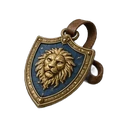
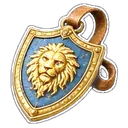
v240: het leeuwenschild, de slang en het wolfsklauw-flesje van Verweer zijn groter en helderder

diff --git a/bundel.js b/bundel.js
@@ -164,7 +164,7 @@ ${T?'<button class="knop volgende" id="gsdirect" style="font-size:1.35em;padding
  <section class="kaart hwblok"><h3>\u{1F4DC} Het verhaal</h3><ul class="hwverh">${g.map((ce,fe)=>{const me=ce.d<=U.i;return`<li class="${me?"":"dicht"}">${me?`<button class="linkknop" data-sc="${fe}">${A.sc[fe]?"":'<b class="hwnieuw">Nieuw</b> '}${ce.t}</button>`:`<span>\u{1F512} ${ce.t}</span><small>vanaf ${i(U.j,ce.d)}</small>`}</li>`}).join("")}</ul></section>
  </div>`);const Q=$("#hwclaim");Q&&(Q.onclick=T),document.querySelectorAll("[data-sc]").forEach(ce=>ce.onclick=()=>{const fe=+ce.dataset.sc;x(g[fe],()=>{A.sc[fe]||(A.sc[fe]=1,s(10,"verhaal"),toast("\u{1F4DC} +10 Pompoensnoepjes van Henk")),V.halloween()})}),document.querySelectorAll(".hwopties [data-o]").forEach(ce=>ce.onclick=()=>{const fe=+ce.dataset.o,me=m[N],Le=$("#hwraadres");if(fe===me[2]){A.raad[N]=1,s(15,"raadsel"),S.galjoenen+=10,bewaar();try{stats(),fx.speel("goed"),vib([20,30,40])}catch{}Le.innerHTML=`<div class="hwgoed">${window.tilly?tilly("<b>Goed zo!</b> "+me[3]):""}<p>+15 Pompoensnoepjes \xB7 +10 Smekkies</p><button class="knop klein" id="hwrv">Verder</button></div>`,document.querySelectorAll(".hwopties button").forEach(He=>He.disabled=!0),$("#hwrv").onclick=()=>V.halloween()}else{ce.disabled=!0,ce.classList.add("mis");try{fx.speel("kras")}catch{}Le.innerHTML='<p class="klein hwhint">Hmm, dat is het niet. Probeer gerust nog eens, er is geen haast.</p>'}})};const Z=V.kamer;Z&&(V.kamer=(...U)=>{const A=Z(...U);try{const N=document.querySelector(".kamer");N&&(S.hwTrofee||[]).length&&!N.querySelector(".hwtrofee")&&N.insertAdjacentHTML("beforeend",`<div class="hwtrofee" title="Gouden Pompoen ${S.hwTrofee.join(", ")}"><img src="img/hw/trofee-256.webp" alt="Gouden Pompoen"><small>Halloween ${S.hwTrofee.join(" \xB7 ")}</small></div>`)}catch{}return A});try{if(typeof KAARTEN<"u"&&!KAARTEN.some(U=>U[0]==L)&&(KAARTEN.push([L,"Z","Het huisspook van Griffoendor. Zijn hoofd hangt nog aan \xE9\xE9n reepje vel. Op 31 oktober vierde hij zijn vijfhonderdste sterfdag, en jij was erbij.","img/kaarten/haast-onthoofde-henk.webp","Feestdagen",1]),window.KAARTSERIES&&!KAARTSERIES.includes("Feestdagen")&&KAARTSERIES.push("Feestdagen")),typeof trekKaart=="function"){const U=trekKaart;trekKaart=function(){let A;for(let N=0;N<30;N++)if(A=U(),!A||!A[5])return A;return KAARTEN.find(N=>!N[5])}}}catch(U){console.warn(U)}const ee=V.maker;ee&&(V.maker=(...U)=>{const A=ee(...U);try{const N=o(),Q=localStorage.getItem("zw_hwdatum")||"";$("#app").insertAdjacentHTML("beforeend",`<section class="kaart sierlijst"><h3>Halloween (test)</h3><p class="klein">Nu: ${N.d.toLocaleDateString("nl-NL",{weekday:"long",day:"numeric",month:"long"})} \xB7 ${N.aan?"event AAN (dag "+(N.i+1)+" van 9"+(N.feest?", feestdag":"")+")":"event uit"}${Q?" \xB7 <b>testdatum</b>":""} \xB7 ${(S.hw&&S.hw.tot)|0} snoepjes, stap ${(S.hw&&S.hw.stap)|0}/10</p>
   <p><input type="date" id="hwdat" value="${Q||N.d.getFullYear()+"-"+e(N.d.getMonth()+1)+"-"+e(N.d.getDate())}"> <button class="knop klein" id="hwzet">Gebruik datum</button> <button class="knop klein" id="hwecht">Echte datum</button></p>
-  <p><button class="knop klein" id="hw100">+100 snoepjes</button> <button class="knop klein" id="hwwis">Halloween-voortgang wissen</button></p></section>`),$("#hwzet").onclick=()=>{localStorage.setItem("zw_hwdatum",$("#hwdat").value),te(),V.maker()},$("#hwecht").onclick=()=>{localStorage.removeItem("zw_hwdatum"),te(),V.maker()},$("#hw100").onclick=()=>{s(100,"test"),V.maker()},$("#hwwis").onclick=()=>{delete S.hw,bewaar(),V.maker()}}catch(N){console.warn(N)}return A})})(),(function(){const e="v239";window.ZW_VERSIE=e;const n=()=>`<p class="zwversie">Zweinstein Luna ${e}</p>`,a=V.meer;a&&(V.meer=(...i)=>{const r=a(...i);try{const l=$("#app");l&&!l.querySelector(".zwversie")&&l.insertAdjacentHTML("beforeend",n())}catch{}return r});const o=V.maker;o&&(V.maker=(...i)=>{const r=o(...i);try{const l=$("#app h2");l&&!$("#app .zwversie")&&l.insertAdjacentHTML("afterend",n())}catch{}return r})})(),(()=>{if(typeof m3Winst!="function"||typeof Bord>"u")return;const e=matchMedia("(prefers-reduced-motion: reduce)").matches,n=h=>new Promise(f=>setTimeout(f,h));let a=0,o=0;function i(){let h=document.getElementById("m3sc");if(!h){const f=document.querySelector(".m3mid .m3titel");if(!f)return null;f.insertAdjacentHTML("afterend",'<div class="m3score">Score <b id="m3sc">0</b></div>'),h=document.getElementById("m3sc"),a=0}return h}setInterval(()=>{try{if(typeof M3>"u"||!M3.b||M3.b.sim||document.body.dataset.view!=="match3")return;const h=i();if(!h)return;o=M3.b.score|0,a>o&&(a=o),a<o&&(a=Math.min(o,a+Math.max(5,Math.ceil((o-a)/4))),h.textContent=a.toLocaleString("nl-NL")),p(M3.b)}catch{}},60);let r=null,l=-1;function p(h){const f=document.getElementById("m3bv");if(!f||!h._grens)return;r!==h&&(r=h,l=-1);const K=Math.min(100,a/h._max*100);Math.abs(K-l)>=.2&&(l=K,f.style.width=K.toFixed(1)+"%");const E=document.querySelectorAll("#m3balk .m3bs"),g=[h.klaar&&h.klaar(),a>=h._grens[0],a>=h._grens[1]];E.forEach((x,m)=>{if(g[m]&&!x.classList.contains("aan")){if(x.classList.add("aan","pop"),setTimeout(()=>x.classList.remove("pop"),600),m)try{fx.speel("munt")}catch{}}else!g[m]&&x.classList.contains("aan")&&x.classList.remove("aan")})}const w=h=>{const f=[];for(let K=0;K<RIJEN;K++)for(let E=0;E<KOL;E++){const g=h.g[K][E];g&&g.k>=0&&!g.s&&!h.kist[K][E]&&!(h.strik&&h.strik[K][E])&&f.push([K,E])}return f},y=h=>{const f=[];for(let K=0;K<RIJEN;K++)for(let E=0;E<KOL;E++){const g=h.g[K][E];g&&g.s&&!h.kist[K][E]&&!(h.strik&&h.strik[K][E])&&f.push([K,E])}return f};function d(h,f,K){if(e||!h||!f)return;const E=document.createElement("div");E.className="m3vonk",document.body.appendChild(E);const g=f[0]-h[0],x=f[1]-h[1];E.style.left=h[0]+"px",E.style.top=h[1]+"px",E.animate([{transform:"translate(-50%,-50%) scale(.6)",opacity:.2},{transform:`translate(calc(${g*.5}px - 50%),calc(${x*.5-40}px - 50%)) scale(1.1)`,opacity:1,offset:.5},{transform:`translate(calc(${g}px - 50%),calc(${x}px - 50%)) scale(.7)`,opacity:.9}],{duration:K,easing:"cubic-bezier(.4,0,.3,1)",fill:"forwards"}).onfinish=()=>E.remove(),setTimeout(()=>E.remove(),K+400)}function j(h,f,K){const E=document.createElement("div");E.className="m3plus",E.textContent=K,E.style.left=h+"px",E.style.top=f+"px",document.body.appendChild(E),setTimeout(()=>E.remove(),900)}async function u(h){const f={pop:0,boem:0,spec:0,score0:h.score|0};window._feestLog=f;const K=document.getElementById("m3c"),E=document.getElementById("m3z");if(!K||!E)return;const g=(h._feestZet!=null?h._feestZet:h.zet)|0;let x=g,m=1,k=0;h.telDoel=()=>{},h.zaadKist=1;const v=h.fx.push;h.fx.push=function(...se){return v.apply(this,se.map(ae=>ae&&ae.t=="schat"?{t:"tik",r:ae.r,c:ae.c,s:ae.s}:ae&&ae.t=="vrij"?{t:"plank",r:ae.r,c:ae.c,over:0}:ae))},h.wacht=se=>new Promise(ae=>setTimeout(ae,se/m));const s=document.createElement("div");s.id="m3feest",s.innerHTML="<span>Tik om te versnellen</span>",document.body.appendChild(s),s.addEventListener("pointerdown",se=>{se.preventDefault(),k++,m=Math.min(12,k==1?3.5:m*1.7),s.classList.add("snel"),s.querySelector("span").textContent=m>=6?"\u23E9\u23E9 Supersnel":"\u23E9 Sneller";try{fx.speel("whoosh")}catch{}});const z=()=>K.getBoundingClientRect(),c=()=>z().width/KOL,b=(se,ae)=>{const te=z(),pe=te.width/KOL;return[te.left+(ae+.5)*pe,te.top+(se+.5)*pe]},M=()=>{const se=E.getBoundingClientRect();return[se.left+se.width/2,se.top+se.height/2]},R=Math.max(70,Math.min(170,4200/Math.max(1,g)));try{for(let te=1;te<=g;te++){const pe=w(h);if(!pe.length)break;const ne=R/m,X=pe[Math.random()*pe.length|0];d(M(),b(...X),Math.max(60,ne*1.1)),x--,E.textContent=x,E.parentNode.classList.toggle("weinig",!1),await n(Math.max(40,ne*1.05));const[t,_]=X;if(te%5===0){const O=[];for(let de=t-1;de<=t+1;de++)for(let C=_-1;C<=_+1;C++)if(h.binnen(de,C)){const T=h.g[de][C];T&&T.k>=0&&!T.s&&!h.kist[de][C]&&!(h.strik&&h.strik[de][C])&&O.push([de,C,T.k])}O.forEach(([de,C,T])=>{h.g[de][C].weg=1,h.g[de][C]=null,h.fx.push({t:"pof",r:de,c:C,k:T})}),h.fx.push({t:"bom",r:t,c:_,R:1});const D=60*O.length+200;h.score+=D,f.boem++;const q=b(t,_);j(q[0],q[1],"+"+D);try{fx.speel("kist")}catch{}}else{const O=h.g[t][_];O&&(O.weg=1,h.g[t][_]=null,h.fx.push({t:"pof",r:t,c:_,k:O.k})),h.score+=100,f.pop++;const D=b(t,_);te%2&&j(D[0],D[1],"+100");try{fx.speel("klik")}catch{}}try{M3.toonFx()}catch{}h.val()}E.textContent=0,await n(Math.max(60,260/m)),await M3.knal([]);const se=Date.now();let ae=0;for(;ae<30&&Date.now()-se<9e3;){const te=y(h);if(!te.length)break;const pe=te.sort((_,O)=>_[0]-O[0]||_[1]-O[1])[0],ne=b(...pe),X=h.score;if(!await M3.knal([pe])){await n(120),ae++;continue}h.score+=150,f.spec++,ae++,j(ne[0],ne[1],"+"+(h.score-X|0));try{fx.speel("tover")}catch{}await n(Math.max(40,180/m))}await n(Math.max(80,350/m))}catch(se){console.warn(se)}finally{s.remove(),delete h.telDoel,delete h.wacht,h.fx.push=v,E.textContent=g,f.score=h.score|0,f.sp=m;const se=i();se&&(a=h.score|0,se.textContent=a.toLocaleString("nl-NL"))}}const L=m3Winst;window.m3Winst=m3Winst=function(h,f,...K){let E=!1;try{E=!!(f&&!f.sim&&!f._feest&&f.zet>0&&typeof M3<"u"&&M3.b===f&&M3.knal&&document.getElementById("m3c")&&document.body.dataset.view==="match3")}catch{}const g=()=>{let k;try{k=L.call(this,h,f,...K)}finally{try{ECO.winKlaar(h)}catch{}}try{const v=f.score|0,s=document.querySelector(".m3eind h2");s&&v&&!document.querySelector(".m3eindscore")&&s.insertAdjacentHTML("afterend",`<p class="m3eindscore">Score <b>${v.toLocaleString("nl-NL")}</b></p>`)}catch{}return k};if(!E)return g();f._feest=1;try{ECO.winStart(h,f)}catch{}let x=!1;const m=()=>{x||(x=!0,g())};u(f).catch(k=>console.warn(k)).finally(m),setTimeout(m,3e4)}})(),(()=>{if(typeof V>"u"||!V.mijnkas)return;const e=m=>typeof m=="function",n=()=>S.m3lvl|0,a=m=>typeof ZADEN<"u"&&ZADEN[m]?ZADEN[m][0]:m,o=()=>Date.now(),i=[1e3,1600,2400,3200],r=["de groene kruidenpot","de Edelsteenpot","de Kristalpot","de Hartpot"];function l(){const m=[];return document.querySelectorAll(".mk-pot[data-i]").forEach(k=>m.push({i:+k.dataset.i,el:k,sel:`.mk-pot[data-i="${k.dataset.i}"]`})),document.querySelectorAll(".mk-vloer[data-m]").forEach(k=>{const v=+k.dataset.m;S.mega&&S.mega[v]||m.push({i:200+v,el:k,sel:`.mk-vloer[data-m="${v}"]`})}),m}const p=m=>(S.kweek||{})[m]||null,w=m=>e(window.stadium)||typeof stadium=="function"?stadium(m):-1;function y(m){return Object.keys(S.zaden||{}).filter(k=>(S.zaden[k]|0)>0&&typeof ZADEN<"u"&&ZADEN[k]&&(typeof kruidMag!="function"||kruidMag(k,m)))}function d(){if(typeof ZADEN>"u")return null;let m=null;return Object.entries(ZADEN).forEach(([k,v])=>{window.SUPERPLANTEN&&SUPERPLANTEN[k]||window.zaadDicht&&zaadDicht(k)||typeof kruidSlot=="function"&&kruidSlot(k)||(!m||v[3]<m[1])&&(m=[k,v[3]])}),m}function j(){const m=[],k=l(),v=k.filter(te=>!p(te.i)),s=k.filter(te=>p(te.i)&&w(p(te.i))<4),z=k.filter(te=>p(te.i)&&w(p(te.i))==4),c=S.galjoenen|0,b=window.leraarPoort&&leraarPoort();if(b){const te=i[0];m.push({id:"poort",ico:"\u{1FAB4}",wie:b.prof,tekst:c>=te?`Koop ${r[0]} bij Potten. Dan gaat level ${b.na+1} open.`:`Spaar voor ${r[0]}. Daarna gaat level ${b.na+1} open.`,tel:`${Math.min(c,te)}/${te}`,doel:"#potwinkel",doen:c>=te})}if(z.length){const te=z[0];m.push({id:"oogst",ico:"\u{1F33F}",tekst:z.length>1?`Oogst je planten! ${a(p(te.i).z)} is klaar, en nog ${z.length-1} andere.`:`Oogst je ${a(p(te.i).z)}. Hij is klaar!`,tel:null,doel:te.sel,doen:!0})}if(e(window.kOpdr)||typeof kOpdr=="function")try{const te=kOpdr(),pe=te[0],ne=window.zaadDicht&&zaadDicht(pe),X=typeof kruidSlot=="function"&&kruidSlot(pe),t=kOpdrTel();if(ne||X)m.push({id:"opdr",ico:"\u{1F4DC}",wie:te[3],tekst:te[2],tel:`${t}/${te[1]}`,dicht:ne?`Vanaf level ${ne}`:"Eerst de groene kruidenpot"});else{const _=s.find(C=>p(C.i).z===pe),O=v.find(C=>typeof kruidMag!="function"||kruidMag(pe,C.i));let D,q=null,de=!1;z.some(C=>p(C.i).z===pe)?(D=`Oogst je ${a(pe)}.`,q=z.find(C=>p(C.i).z===pe).sel,de=!0):_?(D=`Je ${a(pe)} groeit. Nog ${tijd(rest(p(_.i)))}.`,q=_.sel):(S.zaden[pe]|0)>0&&O?(D=`Plant een ${a(pe)}-zaadje.`,q=O.sel,de=!0):(S.zaden[pe]|0)>0?D=`Plant een ${a(pe)}-zaadje zodra er een pot vrij is.`:c>=ZADEN[pe][3]?(D=`Koop een ${a(pe)}-zaadje in de Winkel.`,q="#balkwinkel",de=!0):D=`Speel een level voor Smekkies voor een ${a(pe)}-zaadje.`,m.push({id:"opdr",ico:"\u{1F4DC}",wie:te[3],tekst:`${te[2]}. ${D}`,tel:`${t}/${te[1]}`,doel:q,doen:de})}}catch{}if(v.length){const te=v[0];if(y(te.i).length)m.push({id:"plant",ico:"\u{1F331}",tekst:"Plant een zaadje in je lege pot.",tel:null,doel:te.sel,doen:!0});else{const ne=d();ne&&c>=ne[1]&&m.push({id:"zaad",ico:"\u{1F6CD}\uFE0F",tekst:`Koop zaadjes in de Winkel (${a(ne[0])} kost ${ne[1]} Smekkies).`,doel:"#balkwinkel",doen:!0})}}const M=te=>window.spreukGeleerd&&spreukGeleerd(te),R=te=>!window.spreukOpen||spreukOpen(te),se=window.SPREUK_VAN||{flipendo:3,leviosa:6};if(window.waterMag&&waterMag())if(!S.kooiOpen)m.push({id:"kooi",ico:"\u{1F513}",tekst:"Open de kooi: tik op de knop met Flipendo naast het blok.",doel:".mk-kooiknop",doen:!0});else{const te=document.querySelector(".mk-kamer"),pe=te&&te.classList.contains("sproei"),X=1-((S.water||{}).blok|0),t=document.querySelector(`.mk-silos .mk-unit[data-i="${X}"] span`),_=t&&parseInt(t.textContent)>=100;!pe&&_&&m.push({id:"blok",ico:"\u{1F4A7}",tekst:"Een silo is vol! Laat het blok met Wingardium Leviosa naar de knop bij die silo zweven.",doel:".mk-blok",doen:!0})}else for(const[te,pe]of[["flipendo","Flipendo"],["leviosa","Wingardium Leviosa"]])if(!M(te)){R(te)?m.push({id:"les-"+te,ico:"\u{1FA84}",wie:"Professor Banning",tekst:`Leer ${pe} bij Professor Banning. Dan kan het water in je kas aan.`,doel:".mk-leviosa .knop",doen:!0}):m.push({id:"les-"+te,ico:"\u{1FA84}",wie:"Professor Banning",tekst:`Leer ${pe} voor de sproeiers.`,dicht:`Vanaf level ${se[te]}`});break}if(!document.querySelector(".mk-kamer.sproei")){const te=s.find(pe=>!(p(pe.i).nat>o()));te&&m.push({id:"water",ico:"\u{1F4A6}",tekst:`Geef je ${a(p(te.i).z)} water. Dan groeit hij 25% sneller.`,doel:te.sel,doen:!0})}try{const te=ne=>typeof telV=="function"?telV("oogst",ne):0;if(typeof dagQuests=="function"){const ne=dagQuests().find(X=>X[0]==="oogst");ne&&!(S.questKlaar||{})[vandaag()+"oogst"]&&te(0)<ne[1]&&m.push({id:"quest",ico:"\u{1F4CB}",tekst:ne[2]+".",tel:`${Math.min(ne[1],te(0))}/${ne[1]}`,info:1})}if((((S.tel||{})[vandaag()]||{}).oogst|0)<1&&m.push({id:"dagdoel",ico:"\u2B50",tekst:"Dagdoel: oogst vandaag een plant.",tel:"0/1",info:1}),typeof WEEKQ<"u"){const ne=WEEKQ.find(X=>X[0]==="oogst");ne&&te(1)<ne[1]&&m.push({id:"week",ico:"\u{1F4C5}",tekst:ne[2]+".",tel:`${Math.min(ne[1],te(1))}/${ne[1]}`,info:1})}}catch{}if(!b){const te=S.potUpgrade|0,pe=n()>=101||!!S.groteTafel||te>=3;te<4&&(te<2||pe)&&c>=i[te]&&m.push({id:"pot",ico:"\u{1F3FA}",tekst:`Je kunt ${r[te]} kopen bij Potten (${i[te]} Smekkies). Dan heb je plek voor een plant meer.`,doel:"#potwinkel",doen:!0})}return{T:m,groei:s}}function u(m){if(!m.length)return"Alles gedaan! Speel een level, dan verdien je Smekkies voor nieuwe zaadjes.";const k=Math.min(...m.map(v=>rest(p(v.i))));return`Alles gedaan! Kom terug als je planten klaar zijn (over ${tijd(k)}).`}let L=!1,h="";const f=m=>String(m).replace(/[&<>"]/g,k=>({"&":"&amp;","<":"&lt;",">":"&gt;",'"':"&quot;"})[k]);function K(m){if(document.body.dataset.view!=="mijnkas")return;const k=document.getElementById("app");if(!k||!k.querySelector(".mk-kamer"))return;const{T:v,groei:s}=j(),c=v.filter(ae=>ae.doen&&!ae.dicht)[0]||null,b=v.filter(ae=>ae!==c),M=JSON.stringify([L,v.map(ae=>[ae.id,ae.tekst,ae.tel,ae.dicht]),c?"":u(s)]);if(!m&&M===h&&document.getElementById("kastaak"))return;h=M;let R=document.getElementById("kastaak");R||(R=document.createElement("section"),R.id="kastaak",R.className="kastaak",k.appendChild(R));const se=ae=>`<li class="${ae.dicht?"dicht":""}${ae.info?" info":""}"><span class="kt-ico">${ae.ico}</span><span class="kt-txt">${ae.wie&&!ae.tekst.includes(ae.wie)?`<b>${f(ae.wie)}:</b> `:""}${f(ae.tekst)}${ae.dicht?` <em class="kt-slot">\u{1F512} ${f(ae.dicht)}</em>`:""}</span>${ae.tel?`<span class="kt-tel">${ae.tel}</span>`:""}${ae.doel&&!ae.dicht?`<button type="button" class="kt-wijs" data-doel="${f(ae.doel)}" aria-label="Laat zien waar">\u279C</button>`:""}</li>`;R.innerHTML=`<div class="kt-kop" role="button" aria-expanded="${L}"><span class="kt-label">${c?"Volgende stap":"Klaar voor nu"}</span>${b.length?`<span class="kt-meer">${L?"Minder \u25B4":`Nog ${b.length} \u25BE`}</span>`:""}</div>
+  <p><button class="knop klein" id="hw100">+100 snoepjes</button> <button class="knop klein" id="hwwis">Halloween-voortgang wissen</button></p></section>`),$("#hwzet").onclick=()=>{localStorage.setItem("zw_hwdatum",$("#hwdat").value),te(),V.maker()},$("#hwecht").onclick=()=>{localStorage.removeItem("zw_hwdatum"),te(),V.maker()},$("#hw100").onclick=()=>{s(100,"test"),V.maker()},$("#hwwis").onclick=()=>{delete S.hw,bewaar(),V.maker()}}catch(N){console.warn(N)}return A})})(),(function(){const e="v240";window.ZW_VERSIE=e;const n=()=>`<p class="zwversie">Zweinstein Luna ${e}</p>`,a=V.meer;a&&(V.meer=(...i)=>{const r=a(...i);try{const l=$("#app");l&&!l.querySelector(".zwversie")&&l.insertAdjacentHTML("beforeend",n())}catch{}return r});const o=V.maker;o&&(V.maker=(...i)=>{const r=o(...i);try{const l=$("#app h2");l&&!$("#app .zwversie")&&l.insertAdjacentHTML("afterend",n())}catch{}return r})})(),(()=>{if(typeof m3Winst!="function"||typeof Bord>"u")return;const e=matchMedia("(prefers-reduced-motion: reduce)").matches,n=h=>new Promise(f=>setTimeout(f,h));let a=0,o=0;function i(){let h=document.getElementById("m3sc");if(!h){const f=document.querySelector(".m3mid .m3titel");if(!f)return null;f.insertAdjacentHTML("afterend",'<div class="m3score">Score <b id="m3sc">0</b></div>'),h=document.getElementById("m3sc"),a=0}return h}setInterval(()=>{try{if(typeof M3>"u"||!M3.b||M3.b.sim||document.body.dataset.view!=="match3")return;const h=i();if(!h)return;o=M3.b.score|0,a>o&&(a=o),a<o&&(a=Math.min(o,a+Math.max(5,Math.ceil((o-a)/4))),h.textContent=a.toLocaleString("nl-NL")),p(M3.b)}catch{}},60);let r=null,l=-1;function p(h){const f=document.getElementById("m3bv");if(!f||!h._grens)return;r!==h&&(r=h,l=-1);const K=Math.min(100,a/h._max*100);Math.abs(K-l)>=.2&&(l=K,f.style.width=K.toFixed(1)+"%");const E=document.querySelectorAll("#m3balk .m3bs"),g=[h.klaar&&h.klaar(),a>=h._grens[0],a>=h._grens[1]];E.forEach((x,m)=>{if(g[m]&&!x.classList.contains("aan")){if(x.classList.add("aan","pop"),setTimeout(()=>x.classList.remove("pop"),600),m)try{fx.speel("munt")}catch{}}else!g[m]&&x.classList.contains("aan")&&x.classList.remove("aan")})}const w=h=>{const f=[];for(let K=0;K<RIJEN;K++)for(let E=0;E<KOL;E++){const g=h.g[K][E];g&&g.k>=0&&!g.s&&!h.kist[K][E]&&!(h.strik&&h.strik[K][E])&&f.push([K,E])}return f},y=h=>{const f=[];for(let K=0;K<RIJEN;K++)for(let E=0;E<KOL;E++){const g=h.g[K][E];g&&g.s&&!h.kist[K][E]&&!(h.strik&&h.strik[K][E])&&f.push([K,E])}return f};function d(h,f,K){if(e||!h||!f)return;const E=document.createElement("div");E.className="m3vonk",document.body.appendChild(E);const g=f[0]-h[0],x=f[1]-h[1];E.style.left=h[0]+"px",E.style.top=h[1]+"px",E.animate([{transform:"translate(-50%,-50%) scale(.6)",opacity:.2},{transform:`translate(calc(${g*.5}px - 50%),calc(${x*.5-40}px - 50%)) scale(1.1)`,opacity:1,offset:.5},{transform:`translate(calc(${g}px - 50%),calc(${x}px - 50%)) scale(.7)`,opacity:.9}],{duration:K,easing:"cubic-bezier(.4,0,.3,1)",fill:"forwards"}).onfinish=()=>E.remove(),setTimeout(()=>E.remove(),K+400)}function j(h,f,K){const E=document.createElement("div");E.className="m3plus",E.textContent=K,E.style.left=h+"px",E.style.top=f+"px",document.body.appendChild(E),setTimeout(()=>E.remove(),900)}async function u(h){const f={pop:0,boem:0,spec:0,score0:h.score|0};window._feestLog=f;const K=document.getElementById("m3c"),E=document.getElementById("m3z");if(!K||!E)return;const g=(h._feestZet!=null?h._feestZet:h.zet)|0;let x=g,m=1,k=0;h.telDoel=()=>{},h.zaadKist=1;const v=h.fx.push;h.fx.push=function(...se){return v.apply(this,se.map(ae=>ae&&ae.t=="schat"?{t:"tik",r:ae.r,c:ae.c,s:ae.s}:ae&&ae.t=="vrij"?{t:"plank",r:ae.r,c:ae.c,over:0}:ae))},h.wacht=se=>new Promise(ae=>setTimeout(ae,se/m));const s=document.createElement("div");s.id="m3feest",s.innerHTML="<span>Tik om te versnellen</span>",document.body.appendChild(s),s.addEventListener("pointerdown",se=>{se.preventDefault(),k++,m=Math.min(12,k==1?3.5:m*1.7),s.classList.add("snel"),s.querySelector("span").textContent=m>=6?"\u23E9\u23E9 Supersnel":"\u23E9 Sneller";try{fx.speel("whoosh")}catch{}});const z=()=>K.getBoundingClientRect(),c=()=>z().width/KOL,b=(se,ae)=>{const te=z(),pe=te.width/KOL;return[te.left+(ae+.5)*pe,te.top+(se+.5)*pe]},M=()=>{const se=E.getBoundingClientRect();return[se.left+se.width/2,se.top+se.height/2]},R=Math.max(70,Math.min(170,4200/Math.max(1,g)));try{for(let te=1;te<=g;te++){const pe=w(h);if(!pe.length)break;const ne=R/m,X=pe[Math.random()*pe.length|0];d(M(),b(...X),Math.max(60,ne*1.1)),x--,E.textContent=x,E.parentNode.classList.toggle("weinig",!1),await n(Math.max(40,ne*1.05));const[t,_]=X;if(te%5===0){const O=[];for(let de=t-1;de<=t+1;de++)for(let C=_-1;C<=_+1;C++)if(h.binnen(de,C)){const T=h.g[de][C];T&&T.k>=0&&!T.s&&!h.kist[de][C]&&!(h.strik&&h.strik[de][C])&&O.push([de,C,T.k])}O.forEach(([de,C,T])=>{h.g[de][C].weg=1,h.g[de][C]=null,h.fx.push({t:"pof",r:de,c:C,k:T})}),h.fx.push({t:"bom",r:t,c:_,R:1});const D=60*O.length+200;h.score+=D,f.boem++;const q=b(t,_);j(q[0],q[1],"+"+D);try{fx.speel("kist")}catch{}}else{const O=h.g[t][_];O&&(O.weg=1,h.g[t][_]=null,h.fx.push({t:"pof",r:t,c:_,k:O.k})),h.score+=100,f.pop++;const D=b(t,_);te%2&&j(D[0],D[1],"+100");try{fx.speel("klik")}catch{}}try{M3.toonFx()}catch{}h.val()}E.textContent=0,await n(Math.max(60,260/m)),await M3.knal([]);const se=Date.now();let ae=0;for(;ae<30&&Date.now()-se<9e3;){const te=y(h);if(!te.length)break;const pe=te.sort((_,O)=>_[0]-O[0]||_[1]-O[1])[0],ne=b(...pe),X=h.score;if(!await M3.knal([pe])){await n(120),ae++;continue}h.score+=150,f.spec++,ae++,j(ne[0],ne[1],"+"+(h.score-X|0));try{fx.speel("tover")}catch{}await n(Math.max(40,180/m))}await n(Math.max(80,350/m))}catch(se){console.warn(se)}finally{s.remove(),delete h.telDoel,delete h.wacht,h.fx.push=v,E.textContent=g,f.score=h.score|0,f.sp=m;const se=i();se&&(a=h.score|0,se.textContent=a.toLocaleString("nl-NL"))}}const L=m3Winst;window.m3Winst=m3Winst=function(h,f,...K){let E=!1;try{E=!!(f&&!f.sim&&!f._feest&&f.zet>0&&typeof M3<"u"&&M3.b===f&&M3.knal&&document.getElementById("m3c")&&document.body.dataset.view==="match3")}catch{}const g=()=>{let k;try{k=L.call(this,h,f,...K)}finally{try{ECO.winKlaar(h)}catch{}}try{const v=f.score|0,s=document.querySelector(".m3eind h2");s&&v&&!document.querySelector(".m3eindscore")&&s.insertAdjacentHTML("afterend",`<p class="m3eindscore">Score <b>${v.toLocaleString("nl-NL")}</b></p>`)}catch{}return k};if(!E)return g();f._feest=1;try{ECO.winStart(h,f)}catch{}let x=!1;const m=()=>{x||(x=!0,g())};u(f).catch(k=>console.warn(k)).finally(m),setTimeout(m,3e4)}})(),(()=>{if(typeof V>"u"||!V.mijnkas)return;const e=m=>typeof m=="function",n=()=>S.m3lvl|0,a=m=>typeof ZADEN<"u"&&ZADEN[m]?ZADEN[m][0]:m,o=()=>Date.now(),i=[1e3,1600,2400,3200],r=["de groene kruidenpot","de Edelsteenpot","de Kristalpot","de Hartpot"];function l(){const m=[];return document.querySelectorAll(".mk-pot[data-i]").forEach(k=>m.push({i:+k.dataset.i,el:k,sel:`.mk-pot[data-i="${k.dataset.i}"]`})),document.querySelectorAll(".mk-vloer[data-m]").forEach(k=>{const v=+k.dataset.m;S.mega&&S.mega[v]||m.push({i:200+v,el:k,sel:`.mk-vloer[data-m="${v}"]`})}),m}const p=m=>(S.kweek||{})[m]||null,w=m=>e(window.stadium)||typeof stadium=="function"?stadium(m):-1;function y(m){return Object.keys(S.zaden||{}).filter(k=>(S.zaden[k]|0)>0&&typeof ZADEN<"u"&&ZADEN[k]&&(typeof kruidMag!="function"||kruidMag(k,m)))}function d(){if(typeof ZADEN>"u")return null;let m=null;return Object.entries(ZADEN).forEach(([k,v])=>{window.SUPERPLANTEN&&SUPERPLANTEN[k]||window.zaadDicht&&zaadDicht(k)||typeof kruidSlot=="function"&&kruidSlot(k)||(!m||v[3]<m[1])&&(m=[k,v[3]])}),m}function j(){const m=[],k=l(),v=k.filter(te=>!p(te.i)),s=k.filter(te=>p(te.i)&&w(p(te.i))<4),z=k.filter(te=>p(te.i)&&w(p(te.i))==4),c=S.galjoenen|0,b=window.leraarPoort&&leraarPoort();if(b){const te=i[0];m.push({id:"poort",ico:"\u{1FAB4}",wie:b.prof,tekst:c>=te?`Koop ${r[0]} bij Potten. Dan gaat level ${b.na+1} open.`:`Spaar voor ${r[0]}. Daarna gaat level ${b.na+1} open.`,tel:`${Math.min(c,te)}/${te}`,doel:"#potwinkel",doen:c>=te})}if(z.length){const te=z[0];m.push({id:"oogst",ico:"\u{1F33F}",tekst:z.length>1?`Oogst je planten! ${a(p(te.i).z)} is klaar, en nog ${z.length-1} andere.`:`Oogst je ${a(p(te.i).z)}. Hij is klaar!`,tel:null,doel:te.sel,doen:!0})}if(e(window.kOpdr)||typeof kOpdr=="function")try{const te=kOpdr(),pe=te[0],ne=window.zaadDicht&&zaadDicht(pe),X=typeof kruidSlot=="function"&&kruidSlot(pe),t=kOpdrTel();if(ne||X)m.push({id:"opdr",ico:"\u{1F4DC}",wie:te[3],tekst:te[2],tel:`${t}/${te[1]}`,dicht:ne?`Vanaf level ${ne}`:"Eerst de groene kruidenpot"});else{const _=s.find(C=>p(C.i).z===pe),O=v.find(C=>typeof kruidMag!="function"||kruidMag(pe,C.i));let D,q=null,de=!1;z.some(C=>p(C.i).z===pe)?(D=`Oogst je ${a(pe)}.`,q=z.find(C=>p(C.i).z===pe).sel,de=!0):_?(D=`Je ${a(pe)} groeit. Nog ${tijd(rest(p(_.i)))}.`,q=_.sel):(S.zaden[pe]|0)>0&&O?(D=`Plant een ${a(pe)}-zaadje.`,q=O.sel,de=!0):(S.zaden[pe]|0)>0?D=`Plant een ${a(pe)}-zaadje zodra er een pot vrij is.`:c>=ZADEN[pe][3]?(D=`Koop een ${a(pe)}-zaadje in de Winkel.`,q="#balkwinkel",de=!0):D=`Speel een level voor Smekkies voor een ${a(pe)}-zaadje.`,m.push({id:"opdr",ico:"\u{1F4DC}",wie:te[3],tekst:`${te[2]}. ${D}`,tel:`${t}/${te[1]}`,doel:q,doen:de})}}catch{}if(v.length){const te=v[0];if(y(te.i).length)m.push({id:"plant",ico:"\u{1F331}",tekst:"Plant een zaadje in je lege pot.",tel:null,doel:te.sel,doen:!0});else{const ne=d();ne&&c>=ne[1]&&m.push({id:"zaad",ico:"\u{1F6CD}\uFE0F",tekst:`Koop zaadjes in de Winkel (${a(ne[0])} kost ${ne[1]} Smekkies).`,doel:"#balkwinkel",doen:!0})}}const M=te=>window.spreukGeleerd&&spreukGeleerd(te),R=te=>!window.spreukOpen||spreukOpen(te),se=window.SPREUK_VAN||{flipendo:3,leviosa:6};if(window.waterMag&&waterMag())if(!S.kooiOpen)m.push({id:"kooi",ico:"\u{1F513}",tekst:"Open de kooi: tik op de knop met Flipendo naast het blok.",doel:".mk-kooiknop",doen:!0});else{const te=document.querySelector(".mk-kamer"),pe=te&&te.classList.contains("sproei"),X=1-((S.water||{}).blok|0),t=document.querySelector(`.mk-silos .mk-unit[data-i="${X}"] span`),_=t&&parseInt(t.textContent)>=100;!pe&&_&&m.push({id:"blok",ico:"\u{1F4A7}",tekst:"Een silo is vol! Laat het blok met Wingardium Leviosa naar de knop bij die silo zweven.",doel:".mk-blok",doen:!0})}else for(const[te,pe]of[["flipendo","Flipendo"],["leviosa","Wingardium Leviosa"]])if(!M(te)){R(te)?m.push({id:"les-"+te,ico:"\u{1FA84}",wie:"Professor Banning",tekst:`Leer ${pe} bij Professor Banning. Dan kan het water in je kas aan.`,doel:".mk-leviosa .knop",doen:!0}):m.push({id:"les-"+te,ico:"\u{1FA84}",wie:"Professor Banning",tekst:`Leer ${pe} voor de sproeiers.`,dicht:`Vanaf level ${se[te]}`});break}if(!document.querySelector(".mk-kamer.sproei")){const te=s.find(pe=>!(p(pe.i).nat>o()));te&&m.push({id:"water",ico:"\u{1F4A6}",tekst:`Geef je ${a(p(te.i).z)} water. Dan groeit hij 25% sneller.`,doel:te.sel,doen:!0})}try{const te=ne=>typeof telV=="function"?telV("oogst",ne):0;if(typeof dagQuests=="function"){const ne=dagQuests().find(X=>X[0]==="oogst");ne&&!(S.questKlaar||{})[vandaag()+"oogst"]&&te(0)<ne[1]&&m.push({id:"quest",ico:"\u{1F4CB}",tekst:ne[2]+".",tel:`${Math.min(ne[1],te(0))}/${ne[1]}`,info:1})}if((((S.tel||{})[vandaag()]||{}).oogst|0)<1&&m.push({id:"dagdoel",ico:"\u2B50",tekst:"Dagdoel: oogst vandaag een plant.",tel:"0/1",info:1}),typeof WEEKQ<"u"){const ne=WEEKQ.find(X=>X[0]==="oogst");ne&&te(1)<ne[1]&&m.push({id:"week",ico:"\u{1F4C5}",tekst:ne[2]+".",tel:`${Math.min(ne[1],te(1))}/${ne[1]}`,info:1})}}catch{}if(!b){const te=S.potUpgrade|0,pe=n()>=101||!!S.groteTafel||te>=3;te<4&&(te<2||pe)&&c>=i[te]&&m.push({id:"pot",ico:"\u{1F3FA}",tekst:`Je kunt ${r[te]} kopen bij Potten (${i[te]} Smekkies). Dan heb je plek voor een plant meer.`,doel:"#potwinkel",doen:!0})}return{T:m,groei:s}}function u(m){if(!m.length)return"Alles gedaan! Speel een level, dan verdien je Smekkies voor nieuwe zaadjes.";const k=Math.min(...m.map(v=>rest(p(v.i))));return`Alles gedaan! Kom terug als je planten klaar zijn (over ${tijd(k)}).`}let L=!1,h="";const f=m=>String(m).replace(/[&<>"]/g,k=>({"&":"&amp;","<":"&lt;",">":"&gt;",'"':"&quot;"})[k]);function K(m){if(document.body.dataset.view!=="mijnkas")return;const k=document.getElementById("app");if(!k||!k.querySelector(".mk-kamer"))return;const{T:v,groei:s}=j(),c=v.filter(ae=>ae.doen&&!ae.dicht)[0]||null,b=v.filter(ae=>ae!==c),M=JSON.stringify([L,v.map(ae=>[ae.id,ae.tekst,ae.tel,ae.dicht]),c?"":u(s)]);if(!m&&M===h&&document.getElementById("kastaak"))return;h=M;let R=document.getElementById("kastaak");R||(R=document.createElement("section"),R.id="kastaak",R.className="kastaak",k.appendChild(R));const se=ae=>`<li class="${ae.dicht?"dicht":""}${ae.info?" info":""}"><span class="kt-ico">${ae.ico}</span><span class="kt-txt">${ae.wie&&!ae.tekst.includes(ae.wie)?`<b>${f(ae.wie)}:</b> `:""}${f(ae.tekst)}${ae.dicht?` <em class="kt-slot">\u{1F512} ${f(ae.dicht)}</em>`:""}</span>${ae.tel?`<span class="kt-tel">${ae.tel}</span>`:""}${ae.doel&&!ae.dicht?`<button type="button" class="kt-wijs" data-doel="${f(ae.doel)}" aria-label="Laat zien waar">\u279C</button>`:""}</li>`;R.innerHTML=`<div class="kt-kop" role="button" aria-expanded="${L}"><span class="kt-label">${c?"Volgende stap":"Klaar voor nu"}</span>${b.length?`<span class="kt-meer">${L?"Minder \u25B4":`Nog ${b.length} \u25BE`}</span>`:""}</div>
  <div class="kt-hoofd">${c?`<span class="kt-ico">${c.ico}</span><span class="kt-txt">${c.wie&&!c.tekst.includes(c.wie)?`<b>${f(c.wie)}:</b> `:""}${f(c.tekst)}</span>${c.tel?`<span class="kt-tel">${c.tel}</span>`:""}${c.doel?`<button type="button" class="kt-wijs groot" data-doel="${f(c.doel)}" aria-label="Laat zien waar">\u279C</button>`:""}`:`<span class="kt-ico">\u2728</span><span class="kt-txt">${f(u(s))}</span>`}</div>
  ${L&&b.length?`<ul class="kt-lijst">${b.map(se).join("")}</ul>`:""}`,R.querySelector(".kt-kop").onclick=()=>{L=!L,K(!0)},R.querySelector(".kt-hoofd").onclick=ae=>{ae.target.closest(".kt-wijs")||(b.length?(L=!L,K(!0)):c&&c.doel&&E(c.doel))},R.querySelectorAll(".kt-wijs").forEach(ae=>ae.onclick=te=>{te.stopPropagation(),E(ae.dataset.doel)}),c&&c.doel&&!E.gedaan&&(E.gedaan=1,setTimeout(()=>E(c.doel,1),900))}function E(m,k){const v=document.querySelector(m);if(v){try{v.scrollIntoView({behavior:matchMedia("(prefers-reduced-motion: reduce)").matches?"auto":"smooth",inline:"center",block:"nearest"})}catch{}if(document.querySelectorAll(".kt-gloed").forEach(s=>s.classList.remove("kt-gloed")),v.classList.add("kt-gloed"),clearTimeout(E.t),E.t=setTimeout(()=>v.classList.remove("kt-gloed"),k?3500:5e3),!k){L&&(L=!1,K(!0));try{fx.speel("klik")}catch{}}}}window.zwKasTaken=()=>j();const g=V.mijnkas;V.mijnkas=(...m)=>{const k=g(...m);try{h="",K(!0)}catch(v){console.warn(v)}return k};const x=ga;ga=function(m,...k){return m==="mijnkas"&&(E.gedaan=0),x(m,...k)},setInterval(()=>{try{document.body.dataset.view==="mijnkas"&&!document.querySelector(".modal")&&K()}catch{}},2e3)})(),(()=>{if(typeof KOPDR>"u"||typeof kOpdr!="function")return;const e=kOpdr,n=p=>window.ZAAD_VAN&&ZAAD_VAN[p]||1,a=p=>!(window.zaadDicht&&zaadDicht(p))&&!(typeof kruidSlot=="function"&&kruidSlot(p)),o=()=>KOPDR.map((p,w)=>({o:p,i:w})).sort((p,w)=>n(p.o[0])-n(w.o[0])||p.i-w.i),i=p=>KOPDR.find(w=>w[0]===p);function r(){S.kweekGedaan=S.kweekGedaan||{};const p=o().filter(w=>a(w.o[0]));return p.length?(p.sort((w,y)=>(S.kweekGedaan[w.o[0]]|0)-(S.kweekGedaan[y.o[0]]|0)||n(w.o[0])-n(y.o[0])||w.i-y.i),p[0].o):o()[0].o}function l(){const p=S.kweekOpdr|0;let w=S.kweekAct;if(w&&w.n!==p&&(w.n<p&&(S.kweekGedaan=S.kweekGedaan||{},S.kweekGedaan[w.z]=(S.kweekGedaan[w.z]|0)+(p-w.n)),w=null),w&&!i(w.z)&&(w=null),w&&!a(w.z)&&!((S.oogst||{})[w.z+"#"+p]>0)&&(w=null),!w){w={z:r()[0],n:p},S.kweekAct=w;try{bewaar()}catch{}}return i(w.z)}if(!S.kweekAct)try{const p=e(),w=S.kweekOpdr|0;(((S.oogst||{})[p[0]+"#"+w]|0)>0||a(p[0]))&&(S.kweekAct={z:p[0],n:w}),bewaar()}catch{}kOpdr=function(){try{return l()}catch{return e()}},window.zwKweekVolgorde=()=>o().map(p=>p.o[0]+"@"+n(p.o[0]))})(),(function(){"use strict";def("serieBel",{});const e={Tovenaars:"Kenner van de Tovenaars",Heksen:"Kenner van de Heksen",Beesten:"Vriend van de Beesten",Draken:"Drakenkenner",Reuzen:"Reuzenkundige",Kobolden:"Koboldenkundige",Vampiers:"Vampierdeskundige",Zwerkbal:"Zwerkbalverzamelaar",Bonus:"Erekandidaat van het album"};function n(){const h=typeof KAARTSERIES<"u"&&KAARTSERIES||window.KAARTSERIES||[],f=typeof KAARTEN<"u"&&KAARTEN||window.KAARTEN||[];return h.map(K=>{const E=f.filter(x=>x[4]===K),g=E.filter(x=>S.kaarten&&S.kaarten[x[0]]);return{naam:K,kaarten:E,heb:g,klaar:E.length>0&&g.length===E.length}})}function a(h,f={}){if(!h||!h.klaar||(S.serieBel||{})[h.naam])return!1;S.serieBel=S.serieBel||{},S.serieBel[h.naam]=1,S.titels=S.titels||[],S.titels.includes(e[h.naam]||h.naam)||S.titels.push(e[h.naam]||h.naam),bewaar();let K="";try{if(window.zeldzaamZaad){const g=zeldzaamZaad("album",{stil:1});K=g&&g.naam?g.naam:g||""}}catch{}const E=e[h.naam]||h.naam;if(!f.stil){const g=K?`Tilly: \u201CEen complete serie ${h.naam.toLowerCase()}! Je bent nu ${E}. En kijk, er lag een zeldzaam zaadje bij.\u201D`:`Tilly: \u201CEen complete serie ${h.naam.toLowerCase()}! Je bent nu ${E}.\u201D`;try{verhaal([["Tilly",g]],()=>{try{fx.speel("fanfare")}catch{}})}catch{try{toast("Serie "+h.naam+" compleet: "+E)}catch{}}}return!0}window.serieNaKaart=function(h){try{n().forEach(f=>a(f))}catch(f){console.warn(f)}};const o=V.album;V.album=function(){const h=n(),K=(typeof KAARTEN<"u"&&KAARTEN||window.KAARTEN||[]).length,E=Object.keys(S.kaarten||{}).length,g=h.map(x=>{const m=(S.serieBel||{})[x.naam],k=`<div class="aserkop"><h3>${x.naam}</h3><small>${x.heb.length}/${x.kaarten.length}${x.klaar?" \xB7 Compleet":""}${m?" \xB7 "+(e[x.naam]||""):""}</small></div>`,v=x.kaarten.map(s=>{const z=S.kaarten[s[0]]||0,c=z&&s[3]?`<img src="${s[3]}" alt="${s[0]}" loading="lazy">`:z?s[0].split(" ").map(b=>b[0]).join(""):"?";return`<div class="akaart ${z?"heb r"+s[1]:""}" title="${z?(s[2]||s[0]).replace(/"/g,""):"Nog niet gevonden"}"><div class="kfoto">${c}</div><b>${z?s[0]:"???"}</b><small>${z>1?"\xD7"+z:z?"&nbsp;":"nog te vinden"}</small></div>`}).join("");return`<section class="aserie ${x.klaar?"compleet":""}">${k}<div class="album">${v}</div></section>`}).join("");app(`<h1 class="pagkop">Kaartenalbum</h1><p>${E} van ${K} kaarten verzameld. Een complete serie geeft een titel, een korte sc\xE8ne en een zeldzaam zaadje. Dubbele kaarten bewaar je gewoon in je album.</p>${g}<p class="klein">Kaarten vind je in kistjes in de levels, als mijlpaal bij elk 10e level, als cadeau, in de bonuskamer en in Hagrids pompoenen.</p>`);try{h.forEach(x=>a(x))}catch{}};const i=typeof POST<"u"&&POST?POST:[["Tilly","Er kwam een uil voor je, Luna!"]];function r(){try{const h=typeof schoolDag=="function"?schoolDag():null,f=h&&h.inhoud?h.inhoud.titel:"je schooldag",K=i[Math.floor(Date.now()/864e5)%i.length],E=h?` Vandaag staat \u201C${f}\u201D op het programma.`:"";let g=K[1]||"";return g=g.replace(/\s*Er zaten 10 Smekkies bij\.?/gi,"").replace(/\s*Er zitten 10 Smekkies bij[,.]?/gi,"").replace(/\s*En hij stuurt 10 Smekkies mee\.?/gi,"").replace(/\s*alleen 10 glinsterende Smekkies en de woorden:/gi," de woorden:").replace(/\s*en de kaart danst nog steeds een beetje\.?/gi,".").trim(),[K[0],g+E]}catch{return i[0]}}function l(){const h=Date.now();return S.uilenpost?h-S.uilenpost>=2*864e5:(S.uilenpost=h,bewaar(),!1)}function p(){try{const h=j({geenPost:!0});return h?h.tekst:""}catch{return""}}const w=V.login;V.login=function(){const h=S.login||{dag:0,laatst:""},f=h.laatst===vandaag(),K=f?(h.dag+6)%7:h.dag%7;if(document.querySelector(".modal[data-pop=login],.modal[data-pop=ochtend]"))return;const E=!1,g=typeof LOGIN<"u"?LOGIN:[["15 Smekkies",{g:15}]],x=g[K],[m,k]=r(),v=p(),s=document.createElement("div");s.className="modal",s.dataset.pop="ochtend",s.innerHTML=`<div class="perkament modalin rococo ochtendpost">
     <p class="klein ochtenduil">Dagbeloning</p>

diff --git a/sw.js b/sw.js
@@ -1,4 +1,4 @@
-const C='zweinstein-v239';
+const C='zweinstein-v240';
 const F=["./", "index.html", "manifest.json", "CREDITS.txt", "bundel.css", "bundel.js", "img/icoon-192.png", "img/icoon-512.png", "img/lakzegel.webp", "img/sneeuwuil.webp", "img/perkament.webp", "img/perkament-sm.webp", "img/sterrenhemel-sm.webp", "img/hal-zaal-sm.webp", "img/ui/nav-hal-96.webp", "img/ui/nav-kaart-96.webp", "img/ui/nav-kassen-96.webp", "img/ui/nav-boek-96.webp", "img/ui/nav-meer-96.webp", "img/ui/nav-vrienden-96.webp", "img/ui/schild-64.webp", "img/smekkies/zak-half-128.webp", "img/laadschermen/herbologie-klein.webp", "tuin3d.html", "tuin3d.js", "tuin3d.css", "vendor/three.min.js","vendor/GLTFLoader.min.js", "assets/tuin3d/luna.glb", "assets/tuin3d/gargoyle.glb", "assets/tuin3d/dieren/hond.glb", "assets/tuin3d/dieren/kat.glb", "assets/tuin3d/dieren/vos.glb", "assets/tuin3d/dieren/arend.glb", "assets/tuin3d/dieren/kuiken.glb", "assets/tuin3d/tex/gras.webp", "assets/tuin3d/tex/kassei.webp", "assets/tuin3d/tex/kassei-n.webp", "assets/tuin3d/tex/zandsteen.webp", "assets/tuin3d/tex/zandsteen-n.webp", "assets/tuin3d/tex/leisteen.webp", "assets/tuin3d/tex/haag.webp", "assets/tuin3d/tex/steen.webp"];
 const KRITIEK=["./","index.html","bundel.js","bundel.css"];
 async function zetIn(c,u){

diff --git a/versie.js b/versie.js
@@ -1,5 +1,5 @@
 /* ====== v125 Versielabel: klein in Meer en in het makermenu, zodat je kunt zien welke versie een telefoon draait ====== */
-(function(){const VERSIE='v239';window.ZW_VERSIE=VERSIE;
+(function(){const VERSIE='v240';window.ZW_VERSIE=VERSIE;
  const label=()=>`<p class="zwversie">Zweinstein Luna ${VERSIE}</p>`;
  const _meer=V.meer;if(_meer)V.meer=(...a)=>{const r=_meer(...a);try{const app=$('#app');if(app&&!app.querySelector('.zwversie'))app.insertAdjacentHTML('beforeend',label())}catch(e){}return r};
  const _mk=V.maker;if(_mk)V.maker=(...a)=>{const r=_mk(...a);try{const h=$('#app h2');if(h&&!$('#app .zwversie'))h.insertAdjacentHTML('afterend',label())}catch(e){}return r};
